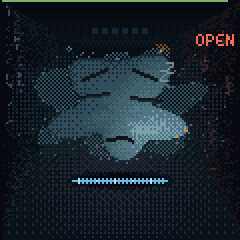
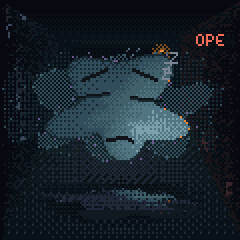
Release 0.3.0: second pages (shadow, sigh, tremble), filter kinds and drive, presets of their own at one level, a crash fixed
Also: the blob's outline index can't reach past its table (found by the fuzzer); ICICLE's level;
README, web hints, CHANGELOG and screenshots for the new pages; tools/fm1_load.py --chaos.

diff --git a/web/play/index.html b/web/play/index.html
@@ -122,7 +122,8 @@ if (window.self !== window.top) document.documentElement.classList.add("framed")
     <ul>
       <li>The blob is the sound. Its body is the wavetable, its eyes the filter, its mouth the envelope, its tears the delay, the room around it the reverb.</li>
       <li>Press a part's button: its drawer opens under the blob and the four knobs turn that part. The drawer hides after 3 s, the page stays (its button lit). Press twice: the drawer stays until <b>HOME</b>.</li>
-      <li><b>HOME</b> body · <b>EDIT</b> eyes · <b>ENV</b> mouth · <b>LFO</b> vibe · <b>FX</b> tears · <b>SEL</b> walls · <b>GLO</b> mixer, again setup · <b>ARP</b> held: the arpeggiator · <b>SEQ</b> the loop, again the tape deck.</li>
+      <li>Some parts have a second page: press the button again (not twice fast). The caption says so (AGAIN: SHADOW.).</li>
+      <li><b>HOME</b> body, again shadow (a second oscillator) · <b>EDIT</b> eyes (the filter, its kind and drive) · <b>ENV</b> mouth, again sigh (a second envelope that sweeps the wavetable) · <b>LFO</b> vibe, again tremble (a second LFO) · <b>FX</b> tears · <b>SEL</b> walls · <b>GLO</b> mixer, again setup · <b>ARP</b> held: the arpeggiator · <b>SEQ</b> the loop, again the tape deck.</li>
     </ul>
   </div>
   <div>
@@ -190,9 +191,9 @@ if (window.self !== window.top) document.documentElement.classList.add("framed")
 const BUTTONS = [
   // row by row, as on the panel
   ["FX", 0, "Tears: chorus, delay, time, feedback"], ["SEL", 1, "Walls: reverb, size, fry, tape"],
-  ["ENV", 2, "Mouth: attack, decay, sustain, release"], ["LFO", 3, "Vibe: rate, depth, shape, where it goes"],
-  ["EDIT", 4, "Eyes: cutoff, resonance, envelope, mod decay"], ["GLO", 5, "Mixer; again: setup"],
-  ["HOME", 6, "Body: wavetable, position, detune, sub"], ["SAVE", 7, "Save (hold 1.5 s: factory settings)"],
+  ["ENV", 2, "Mouth: attack, decay, sustain, release; again: sigh"], ["LFO", 3, "Vibe: rate, depth, shape, where it goes; again: tremble"],
+  ["EDIT", 4, "Eyes: cutoff, resonance, filter kind, drive"], ["GLO", 5, "Mixer; again: setup"],
+  ["HOME", 6, "Body: wavetable, position, detune, sub; again: shadow"], ["SAVE", 7, "Save (hold 1.5 s: factory settings)"],
   ["ARP", 8, "Tap: arpeggiator on / off. Hold: its settings"], ["SEQ", 9, "The loop and its steps; again: the tape deck"],
   ["PLAY\nSTOP", 10, "The band: drums, bass, your loop"], ["REC", 11, "Record into the loop"],
 ];

diff --git a/tools/fm1_load.py b/tools/fm1_load.py
@@ -88,6 +88,44 @@ def wiggle(i, o, secs, chord):
     print(f"wiggled {secs:.0f} s: worst {worst:.1f}%")
 
 
+def chaos(i, o, secs, seed=1):
+    """everything over MIDI at random: any parameter to any value, presets, notes, bends, the deck"""
+    import random
+    r = random.Random(seed)
+    held, end, worst, n = set(), time.time() + secs, 0.0, 0
+    while time.time() < end:
+        x = r.random()
+        if x < 0.35:
+            o.send(mido.Message("control_change", control=102, value=r.randint(0, 60)))
+            o.send(mido.Message("control_change", control=103, value=r.choice([0, 127, r.randint(0, 127)])))
+        elif x < 0.6:
+            k = r.randint(24, 96)
+            if k in held:
+                o.send(mido.Message("note_off", note=k)); held.discard(k)
+            else:
+                o.send(mido.Message("note_on", note=k, velocity=r.randint(1, 127))); held.add(k)
+        elif x < 0.65:
+            o.send(mido.Message("program_change", program=r.randint(0, 127)))
+        elif x < 0.72:
+            o.send(mido.Message("pitchwheel", pitch=r.randint(-8192, 8191)))
+        elif x < 0.75:
+            o.send(mido.Message("control_change", control=104, value=r.choice([0, 127])))
+        elif x < 0.8:
+            o.send(mido.Message("control_change", control=r.choice([1, 7, 70, 71, 72, 73, 74, 91, 93, 94, 123]), value=r.randint(0, 127)))
+        time.sleep(r.choice([0.002, 0.01, 0.03]))
+        n += 1
+        if n % 50 == 0:
+            s = ask(i, o)
+            if s is None:
+                print("no answer: the FM-1 stopped or restarted")
+                return
+            worst = max(worst, s["worst"])
+    for k in held:
+        o.send(mido.Message("note_off", note=k))
+    o.send(mido.Message("control_change", control=104, value=0))
+    print(f"chaos {secs:.0f} s, {n} messages: worst {worst:.1f}%")
+
+
 def main():
     a = argparse.ArgumentParser()
     a.add_argument("--preset", type=int, nargs="*", default=[0])
@@ -97,6 +135,7 @@ def main():
     a.add_argument("--port")
     a.add_argument("--crash", action="store_true", help="print the last crash and the boot count")
     a.add_argument("--wiggle", type=float, default=0, help="seconds of beat + chords + LFO knob turning")
+    a.add_argument("--chaos", type=float, default=0, help="seconds of everything at random over MIDI")
     o_ = a.parse_args()
     name = o_.port or next((n for n in mido.get_output_names() if "FM-1" in n or "Felucca" in n), None)
     if not name:
@@ -109,6 +148,14 @@ def main():
         if o_.crash:
             c = crash(i, o)
             print({k: hex(v) if k in ("vec", "pc", "rets", "sp") else v for k, v in c.items()} if c else "no crash record")
+            return
+        if o_.chaos:
+            before, b0 = crash(i, o), ask(i, o)
+            chaos(i, o, o_.chaos)
+            time.sleep(1)
+            after, b1 = crash(i, o), ask(i, o)
+            print("crashes before/after:", before["count"], after["count"] if after else "?", " boots:", before["boots"],
+                  after["boots"] if after else "?", " late halves:", (b1["late"] - b0["late"]) if b1 else "?")
             return
         if o_.wiggle:
             before = crash(i, o)

diff --git a/firmware/src/app/ui.c b/firmware/src/app/ui.c
@@ -129,7 +129,7 @@ static const mood_t MOODS[] = {
     {"TYPING...", CAT_PLUCK, 0, 0, {13, 70, 5, 25, 74, 25, 60, 24, 0, 44, 20, 25, 0, 0, 0, 0, 10, 40, 30, 45, 25, 40, 0, 20},
      {3, 12, 0, 20, 0, 0, 0, 0, 55, 0, 1, 2, 60}},
     {"ICICLE", CAT_PLUCK, 0, 0, {14, 60, 8, 30, 78, 30, 62, 25, 0, 46, 20, 30, 0, 0, 0, 0, 15, 45, 50, 50, 40, 65, 0, 5},
-     {14, 24, 0, 30, 0, 0, 0, 0, 55, 0, 1, 2, 59}},
+     {14, 24, 0, 30, 0, 0, 0, 0, 55, 0, 1, 2, 46}},
     {"MAIN CHARACTER", CAT_LEAD, 0, 25, {7, 55, 25, 20, 70, 35, 40, 50, 3, 50, 75, 35, 45, 8, 0, 2, 25, 35, 45, 40, 30, 50, 10, 10},
      {7, -12, 0, 35, 0, 30, 0, 0, 55, 0, 1, 2, -12}},
     {"LOW BATTERY", CAT_LEAD, 0, 10, {4, 60, 15, 10, 60, 20, 20, 40, 5, 40, 80, 40, 55, 20, 0, 2, 20, 30, 55, 45, 35, 60, 0, 70},

diff --git a/firmware/src/app/blob.c b/firmware/src/app/blob.c
@@ -418,7 +418,7 @@ static void shade_px(const shade_t *sh, int32_t x, int32_t y)
 {
     const float dx = (float)x + 0.5f - sh->cx, dy = (float)y + 0.5f - sh->cy;
     const float dist = mm_sqrtf(dx * dx + dy * dy), a = atan_turns(dy, dx) * (float)NV;
-    const int k = (int)a;
+    const int k = (int)a < NV ? ((int)a < 0 ? 0 : (int)a) : NV - 1;   /* (a can be exactly NV: a full turn) */
     const float rr = sh->rr[k] + (sh->rr[k + 1] - sh->rr[k]) * (a - (float)k);
     float nx, ny, nz, d, lam, lv, sp;
     const float dith = px_dith4(x, y);

diff --git a/README.md b/README.md
@@ -29,15 +29,15 @@ through X0X, FoMni and FiMba-1, the firmware MOPE-1 started from.
 | **Sub** | It gets heavier, and its bottom spreads. |
 | **Cutoff** | Its big eyes: wide open, then half-lidded, then shut (stoned), all the way. |
 | **Resonance** | Its pupils shrink to pinpoints and start to glow, and at the top they become laser eyes. |
-| **Env amount / Mod decay** | Its eyebrows rise with every note. |
+| **Filter kind, Drive** | The Eyes page's curve shows the kind: low-pass, band-pass (a squint), high-pass (wide awake), notch (a wink) or comb (the blinds). |
+| **Sigh: Env amount / Mod decay** | Its eyebrows rise with every note. |
 | **Attack / Decay / Sustain / Release** | Its big mouth opens wide with the note, stays open at the sustain and closes with the release. A long release is a yawn. |
 | **LFO** | Its whole body dances at the rate, as far as the depth: a sway (side to side, leaning into it), a bob (stretching as it rises), a bounce (squashed when it lands), a nod, a twitch, a heave (filling up slowly, then letting it all out), a wander (off somewhere and back), a stagger (sideways in four lurches) or a throb (two swells and a rest, like a heart); its lumps wobble along. It dances big while notes sound (riding their envelope), shows you a preview while you turn the Vibe knobs, and only murmurs when idle. |
 | **Chorus** | See-through copies of itself peek out from behind it, a beat out of step: one a side, then more, further out and fainter. |
-| **Delay** | It cries one tear per echo. Each tear is smaller than the one before, and they fall as far apart as the echoes. They pool on the ground. |
+| **Delay** | It cries one tear per echo. Each tear is smaller than the one before, and they fall as far apart as the echoes. They collect in a dark puddle on the floor in front of it, which mirrors it (blurred, upside down) and ripples when a tear lands. |
 | **Reverb, Size** | The walls throw cold light back onto its edges as the reverb rings. A bigger room pushes the walls out and the blob gets smaller in it. Past the walls is the void, with stars. |
 | **Fry** | It gets deep-fried in burnt patches: brown, crusty, sweating, then steaming. |
 | **Volume** | Its dirty orange aura. |
-| **Voices** | Six lights over its head, one per voice: bright while its note is held, glowing while it rings out. A stolen voice's light gets yeeted. |
 | **Clipping** | It catches fire and looks calm (this is fine). |
 | **The drums** | A smoky see-through cassette in the top-left corner, the tape winding between its spools, the style on its label, its reels turning at the tempo. Kicks squash the blob and make the light flinch, snares make it blink, hats are rain on the window. Gabber makes it shake. |
 | **Nothing** | Its mouth rests at meh. It falls asleep; much later it wakes up and stares at you. |
@@ -58,12 +58,12 @@ through X0X, FoMni and FiMba-1, the firmware MOPE-1 started from.
 
 ## Controls
 
-Press or hold a part's button: its schematic opens in a dark glass drawer over the bottom of the screen and the four knobs turn that part, each knob's name over its meter (the one you turn lights up). The drawer stays until 3 seconds after your last touch, then slides away, but **the page stays**: its button stays lit and the knobs still turn that part (turning one brings the drawer back). **HOME** goes back to the Body. **Press a part's button twice quickly and its drawer stays open** (switch pages with the other buttons) until you press **HOME**. OCT+ or OCT− is lit while the keyboard is shifted up or down. The blob stays big and shows faintly through the glass. The drawer is drawn in the room's cold colours, like the drum grid.
+Press or hold a part's button: its schematic opens in a dark glass drawer over the bottom of the screen and the four knobs turn that part, each knob's name over its meter (the one you turn lights up). The drawer stays until 3 seconds after your last touch, then slides away, but **the page stays**: its button stays lit and the knobs still turn that part (turning one brings the drawer back). **HOME** goes back to the Body. **Some parts have a second page:** press the button again while its page shows (HOME: Shadow, ENV: Sigh, LFO: Tremble, GLO: Setup, SEQ: Tape deck). Until you've found one, the caption nudges you (AGAIN: SHADOW.). **Press a part's button twice quickly and its drawer stays open** (switch pages with the other buttons) until you press **HOME**. OCT+ or OCT− is lit while the keyboard is shifted up or down. The blob stays big and shows faintly through the glass. The drawer is drawn in the room's cold colours, like the drum grid.
 
 | Page | Its schematic |
 | --- | --- |
 | Body | the wavetable's frames stacked, the one playing in front, the detuned copy sliding, the position on a frame ladder |
-| Eyes | the low-pass curve and its resonance peak, the cutoff marked, and where the note's envelope opens it now (red) |
+| Eyes | the filter's curve for its kind (low, band, high, notch, or the comb's teeth) and its resonance peak, the cutoff marked, and where the note's envelope opens it now (red) |
 | Mouth | the ADSR, a red dot riding it where the loudest note is |
 | Vibe | the LFO's wave (more cycles: faster), a red dot at its phase, where it goes |
 | Tears | the delay's taps, ping (blue) and pong (coral), each smaller; the chorus as a wobbling ribbon |
@@ -72,13 +72,19 @@ Press or hold a part's button: its schematic opens in a dark glass drawer over t
 | Mixer | four channel strips: each a fader and a live meter (voice, drums, bass, gunk) |
 | Arp | the next 16 steps as a piano roll, the playing one lit, each as long as the gate |
 | Setup | a note gliding to the next, MIDI out and channel |
+| Shadow | the second wave over the first at its interval, how they meet (mix, FM, ring, sync), the interval in semitones |
+| Sigh | the second envelope's rise and fall, a red dot where the loudest note is; meters for how far it moves the wave (W, up or down the table) and the eyes (E) |
+| Tremble | the second LFO, drawn like Vibe's |
 
 | Button | Part | KNOB 1 | KNOB 2 | KNOB 3 | KNOB 4 |
 | --- | --- | --- | --- | --- | --- |
 | HOME | Body | Table | Position | Detune | Sub |
-| EDIT | Eyes | Cutoff | Resonance | Env amount | Mod decay |
+| HOME again | Shadow | Its table | Tune (semitones, ±24) | Meets (mix, FM, ring, sync) | Level (0: off) |
+| EDIT | Eyes | Cutoff | Resonance | Kind (low, band, high, notch, comb) | Drive |
 | ENV | Mouth | Attack | Decay | Sustain | Release |
-| LFO | Vibe | Rate | Depth | Shape (sway, bob, bounce, nod, twitch, heave, wander, stagger, throb) | Destination (shape, eyes, voice, volume) |
+| ENV again | Sigh | Its attack (0: the mouth's) | Its decay | Wave (how far it sweeps the table, either way) | Eyes (how far it opens the filter) |
+| LFO | Vibe | Rate | Depth | Shape (sway, bob, bounce, nod, twitch, heave, wander, stagger, throb) | Destination (shape, eyes, voice, volume, shadow) |
+| LFO again | Tremble | Rate | Depth | Shape | Destination |
 | FX | Tears | Chorus | Delay | Time | Feedback |
 | SEL | Walls | Reverb | Size | Fry | Tape |
 | SEQ | Loop | Note | Length | Velocity (of the chosen step, or the whole loop) | Bars (1, 2, 4) |
@@ -135,10 +141,16 @@ CHANGED."). Level 10 gives it a balloon, mostly deflated.
   boot from harmonic recipes, so they take no flash space. Each frame is mipmapped at five sizes, so
   high notes don't alias (the test checks C7 on Sync: aliases at −68 dB).
 - **6 voices:** two detuned oscillators panned apart, a sine sub, slow analog drift, a resonant
-  low-pass (Simper's SVF) with key tracking, an amp ADSR and a mod envelope on the cutoff. A stolen
-  voice restarts from its current level, so stealing doesn't click.
-- **One LFO** with 9 shapes (sine, triangle, square, saw down, random, saw up, smooth random, four steps,
-  a heartbeat) and 4 destinations.
+  filter (Simper's SVF: low, band, high or notch; or a comb) with key tracking and drive, an amp ADSR
+  and a mod envelope (its own attack) on the cutoff and the wavetable's position. A stolen voice
+  restarts from its current level, so stealing doesn't click.
+- **The shadow:** a second oscillator per voice, its own table, ±24 semitones away, mixed in, frequency
+  modulating the first, ring modulating it or synced to it.
+- **Two LFOs** with 9 shapes (sine, triangle, square, saw down, random, saw up, smooth random, four steps,
+  a heartbeat) and 5 destinations (the position, the cutoff, the pitch, the volume, the shadow).
+- **It keeps up:** on the FM-1 a heavy sound (the shadow, drive, a band-pass) plays fewer voices so
+  the audio never runs late, and if a moment still runs hot it lets the oldest voice go quickly.
+- **Presets at one level:** each preset carries a trim measured on the FM-1, so switching doesn't jump.
 - **Effects:** fry (drive, then bitcrush and sample-rate crush), a three-tap chorus, the tears (a
   ping-pong delay: every echo crosses the room darker and thinner, its time wobbling with Tape), the
   room (a reverb of eight walls handing sound to each other, four of them breathing; Size goes from a

diff --git a/CHANGELOG.md b/CHANGELOG.md
@@ -4,6 +4,36 @@ A release is a push to `main` that changes `VERSION` to a version with no tag ye
 release build, tags the commit `vX.Y.Z` and publishes the GitHub Release with that version's notes,
 taken from its section below. Add the section in the same pull request as the `VERSION` change.
 
+## 0.3.0
+
+More sound from the same blob: a second oscillator, more filters, a second envelope and a second LFO,
+each on a second page; presets that are all different and all as loud; and a crash fixed.
+
+- **Second pages.** Press a part's button again while its page shows (not twice fast: that keeps the
+  drawer open). Until you've found one, the caption nudges you: AGAIN: SHADOW.
+  - **Shadow** (HOME again): a second oscillator in every voice, with its own wavetable, up to two
+    octaves away, mixed in, frequency modulating the first, ring modulating it or synced to it.
+  - **Sigh** (ENV again): the mod envelope gets its own attack, and it can sweep the wavetable on every
+    note, up or down, as well as open the eyes.
+  - **Tremble** (LFO again): a second LFO, any of the 9 shapes, to the shape, the eyes, the pitch, the
+    volume or the shadow.
+  - Each page has its own drawing in the drawer.
+- **The Eyes page** now turns the filter's kind (low-pass, band-pass, high-pass, notch, or a comb)
+  and drive. Env amount and mod decay moved to Sigh.
+- **Every preset is its own sound** and sets all of the new pages, so nothing carries over from the
+  last one (that was the slow pitch wobble on every preset). Fewer of them wobble the pitch or the tape.
+- **Presets at one level:** each is trimmed to the same loudness, measured on the FM-1 itself.
+- **No crackle on chords:** a heavy sound (the shadow, drive, a band-pass) plays fewer voices, and if
+  a moment still runs hot the oldest voice lets go quickly. Plain sounds cost what they did before.
+- **Fixed a crash** when the LFO's destination was the shadow and its page was drawn.
+- **The puddle:** the tears collect in a dark puddle on the floor in front of the blob, inside one soft
+  shadow, a blurred mirror of the blob and the room that ripples when a tear lands. No more dotted
+  floor reflection, and no row of voice lights over its head.
+- The side walls are a touch more visible.
+- Under the hood: random sessions are run under the sanitizers in CI, which found two places drawing
+  just past the edge of their memory (both fixed); the FM-1 answers a USB query with its audio load
+  and its last crash.
+
 ## 0.2.0
 
 MOPE-1's own sound and its own player: the last parts that came from FiMba-1 are rewritten.
